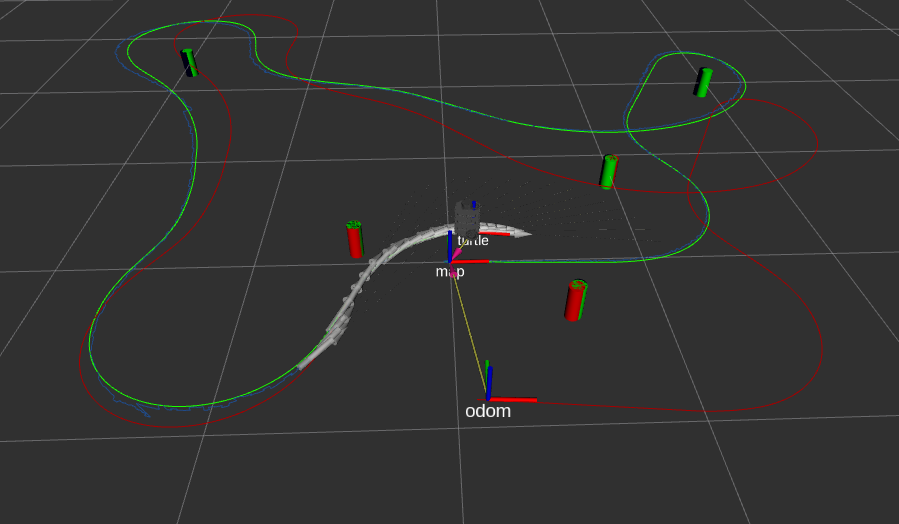
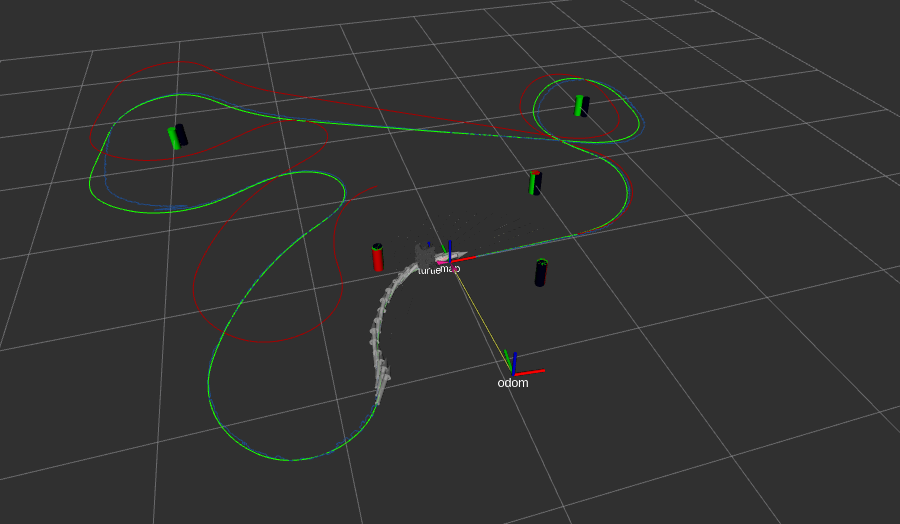
edited rviz screenshots and Readme

diff --git a/nuslam/README.md b/nuslam/README.md
@@ -9,8 +9,8 @@ roslaunch nuslam slam.launch robot:=localhost
 ```
 ![Sample simulation](images/sim1.png)
 * Green path: the real path of the simulated robot
-* Blue path: the estimated path through SLAM
-* Red path: the estimated path through odometry only
+* Blue path: the estimated path through SLAM, approximately matches the real path
+* Red path: the estimated path through odometry only, does not match the real path
 * Turtle frame: the real pose of the robot
 * Map frame to odom frame: the corrections to the pose estimate through SLAM
 * Green markers: the real position of the obstacles in space
